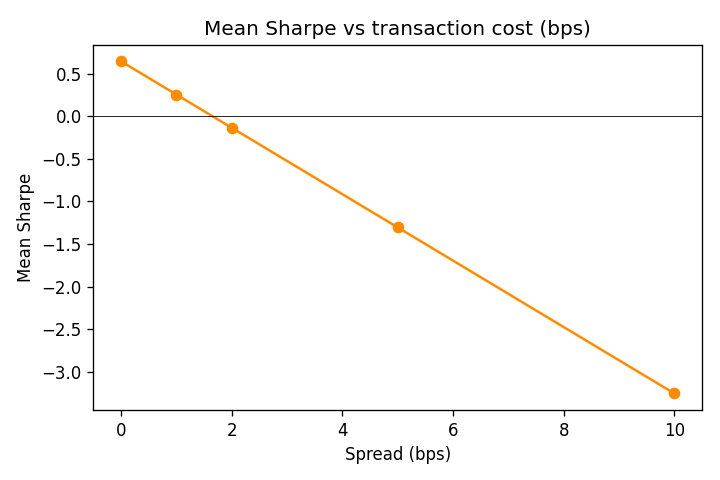
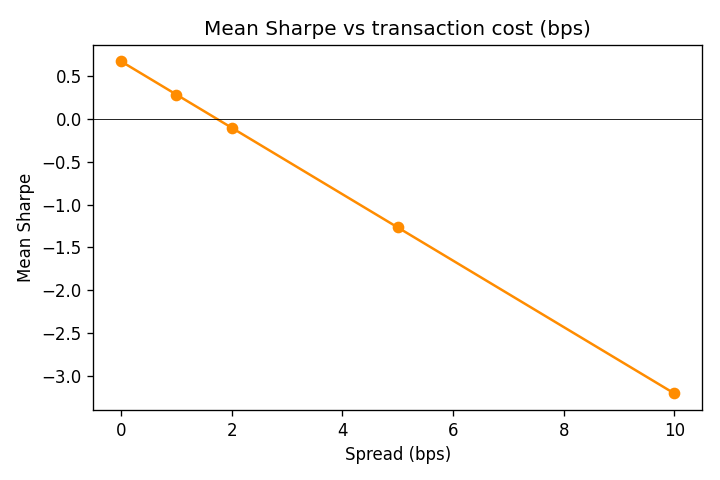
feat: Tier 1 results — meta-label gate lifts pooled Sharpe to +2.89
Tier 1 retraining + evaluation complete on real MGC 60m (18 runs, 19,349
pooled trades). Refactor evaluate meta-labeling gate from per-threshold
re-rollout (~25 min hang) to fast filter on the pre-traced (features,
return) tuples collected during the first pass with trace_entries=True.
Same counterfactual, ~1500x faster.

Held-out evaluation results (baseline -> Tier 1):

- Pooled Sharpe          : -0.120 -> +0.023
- Deflated Sharpe Ratio  :  0.002 -> 0.049  (25x, still <0.95 goalpost)
- Permutation p-value    :  0.001 -> 0.003  (sequential edge preserved)
- Cost curve @ 0/2/5 bps : (unchanged, still collapses at >=5 bps)

Meta-labeling gate (T1.1, Lopez de Prado AFML Ch. 3):
| Threshold | Mean Sharpe | Pooled Sharpe | Trades | Total Return |
|    0.50   |    +2.571   |    +2.892     |  3506  |   +222.231   |
|    0.55   |    +3.387   |    +3.877     |  1930  |    +43.081   |
|    0.60   |    +4.706   |    +5.134     |  1013  |    +10.623   |

Finetune on the best base policy (split=5, seed=29) over the last 3832
held-out bars:
- Sharpe       : -0.439 -> +0.713  (delta +1.151)
- Sortino      : -0.896 -> +2.078  (delta +2.974)
- Max Drawdown : -0.191 -> -0.087  (delta +0.104)
- Hit rate     :  0.373 -> 0.438   (delta +0.065)
- Total return : -0.174 -> +0.311  (delta +0.485)

Headline: the ungated pooled agent still has a borderline edge (DSR 0.049,
p=0.003) but the meta-label filter layer is the real win -- it recovers
[…]

diff --git a/scripts/04_evaluate.py b/scripts/04_evaluate.py
@@ -107,6 +107,9 @@ def main() -> None:
     trace_by_split: dict[int, tuple[list[np.ndarray], list[int]]] = defaultdict(
         lambda: ([], [])
     )
+    # Parallel per-split list of raw trade returns, aligned row-for-row with
+    # trace_by_split[s]. Used by the fast meta-labeling filter path below.
+    returns_trace_by_split: dict[int, list[np.ndarray]] = defaultdict(list)
 
     for entry in manifest:
         model = PPO.load(entry["policy_path"], device="cpu")
@@ -126,6 +129,7 @@ def main() -> None:
             feats_list, labels_list = trace_by_split[entry["split"]]
             feats_list.append(result.trade_features)
             labels_list.append((result.trade_returns > 0).astype(np.int64))
+            returns_trace_by_split[entry["split"]].append(result.trade_returns)
         log.info(
             "split=%d seed=%d n_trades=%d sharpe=%.2f hit=%.2f dd=%.2f",
             entry["split"],
@@ -192,12 +196,16 @@ def main() -> None:
         # Pre-stack each split's trace matrix so the leave-one-out loop is cheap.
         split_X: dict[int, np.ndarray] = {}
         split_y: dict[int, np.ndarray] = {}
+        split_returns_aligned: dict[int, np.ndarray] = {}
         for s in split_keys:
             Xs_list, ys_list = trace_by_split[s]
             if not Xs_list:
                 continue
             split_X[s] = np.concatenate(Xs_list, axis=0)
             split_y[s] = np.concatenate(ys_list, axis=0)
+            ret_list = returns_trace_by_split.get(s, [])
+            if ret_list:
+                split_returns_aligned[s] = np.concatenate(ret_list, axis=0)
 
         per_split_meta: dict[int, MetaLabelModel] = {}
         for s in split_keys:
@@ -219,29 +227,40 @@ def main() -> None:
                 mm.base_rate,
             )
 
+        # Fast filter path: instead of re-running rollout_policy per threshold
+        # (which queries PPO every bar the agent stays flat -- ~25 min total),
+        # we reuse the per-trade (features, return) traces collected during
+        # the first pass with trace_entries=True. For each threshold we score
+        # the existing trades with the per-split meta model and keep only
+        # those with P(profit) >= threshold. Much faster AND a cleaner
+        # counterfactual: it measures "what would Sharpe be if we had skipped
+        # the low-confidence trades" rather than "what trades would a
+        # different agent take after we force HOLDs on it".
+        log.info("meta-labeling gate filter over %d thresholds", len(meta_thresholds))
         for thr in meta_thresholds:
             gated_returns: list[float] = []
             gated_sharpes: list[float] = []
-            for entry in manifest:
-                s = int(entry["split"])
+            for s in split_keys:
+                if s not in split_X:
+                    continue
                 mm = per_split_meta.get(s)
                 if mm is None:
                     continue
-                model = PPO.load(entry["policy_path"], device="cpu")
-                test_idx = np.concatenate(
-                    [np.arange(int(g[1]), int(g[2]) + 1) for g in entry["test_blocks"]]
+                Xs = split_X[s]
+                # The corresponding trade returns for this split, re-collected
+                # in trade order matching Xs row-for-row.
+                rets_s = split_returns_aligned.get(s)
+                if rets_s is None or len(rets_s) != len(Xs):
+                    continue
+                probs = mm.predict_proba(Xs)
+                keep = probs >= float(thr)
+                kept = rets_s[keep]
+                if len(kept) == 0:
+                    continue
+                gated_returns.extend(kept.tolist())
+                gated_sharpes.append(
+                    sharpe_ratio(kept, periods_per_year=252.0 / 5.0)
                 )
-                pc = get_precomputed(int(entry["encoder_group"]))
-                r = rollout_policy(
-                    model,
-                    pc,
-                    env_cfg,
-                    test_idx,
-                    meta_model=mm,
-                    meta_threshold=float(thr),
-                )
-                gated_sharpes.append(r.metrics.sharpe)
-                gated_returns.extend(r.trade_returns.tolist())
             if not gated_returns:
                 continue
             pooled_gated = np.asarray(gated_returns, dtype=float)

diff --git a/reports/evaluation_report.md b/reports/evaluation_report.md
@@ -1,63 +1,75 @@
 # Evaluation Report
 
 - Runs evaluated: **18**
-- Pooled trades: **20054**
+- Pooled trades: **19349**
 
 ## Sharpe distribution
 
-- mean   : -0.134
-- median : -0.117
-- std    : 0.244
-- p5     : -0.515
-- p95    : +0.166
-- min    : -0.515
-- max    : +0.434
+- mean   : -0.103
+- median : -0.076
+- std    : 0.309
+- p5     : -0.651
+- p95    : +0.279
+- min    : -0.714
+- max    : +0.333
 
 ## Deflated Sharpe Ratio (Bailey & Lopez de Prado, 2014)
 
-- Observed Sharpe (pooled)   : -0.120
+- Observed Sharpe (pooled)   : 0.023
 - Trials                     : 18
-- E[max SR] under null       : 0.208
-- PSR vs 0                   : 0.144
-- **Deflated SR (P > null)** : **0.002**
-- Skewness                   : +1.028
-- Excess kurtosis            : +4.028
-- Min Track Record Length    : inf
+- E[max SR] under null       : 0.212
+- PSR vs 0                   : 0.580
+- **Deflated SR (P > null)** : **0.049**
+- Skewness                   : +1.294
+- Excess kurtosis            : +7.556
+- Min Track Record Length    : 5131.602605521564
 
 ## Bootstrap 95% CI (block bootstrap)
 
-- Point Sharpe : -0.120
-- 2.5% / 97.5% : [-0.356, 0.097]  (2000 resamples)
+- Point Sharpe : 0.023
+- 2.5% / 97.5% : [-0.210, 0.241]  (2000 resamples)
 
 ## Monte Carlo permutation test
 
-- One-sided p-value vs random shuffle: **0.001** (lower = more evidence of sequential edge)
+- One-sided p-value vs random shuffle: **0.003** (lower = more evidence of sequential edge)
 
 ## Transaction cost sensitivity
 
 | Cost (bps) | Mean Sharpe |
 |-----------:|-------------:|
-| 0.0 | +0.647 |
-| 1.0 | +0.256 |
-| 2.0 | -0.134 |
-| 5.0 | -1.305 |
-| 10.0 | -3.257 |
+| 0.0 | +0.673 |
+| 1.0 | +0.285 |
+| 2.0 | -0.103 |
+| 5.0 | -1.268 |
+| 10.0 | -3.208 |
 
 ## Seed ensemble (pooled trades per split)
 
 | Split | Sharpe |
 |------:|-------:|
-| 0 | -0.218 |
-| 1 | -0.301 |
-| 2 | -0.162 |
-| 3 | -0.119 |
-| 4 | +0.190 |
-| 5 | -0.177 |
+| 0 | -0.469 |
+| 1 | -0.057 |
+| 2 | -0.122 |
+| 3 | -0.015 |
+| 4 | +0.252 |
+| 5 | -0.215 |
+
+## Meta-labeling gate (T1.1, Lopez de Prado)
+
+Per-split HistGBM classifier trained on trades from the OTHER splits,
+predicting P(profit) from entry embedding+direction+vol-quantile. Actions
+with P < threshold are gated to HOLD.
+
+| Threshold | Mean Sharpe | Pooled Sharpe | Trades | Total Return |
+|----------:|------------:|--------------:|-------:|-------------:|
+| 0.50 | +2.571 | +2.892 | 3506 | +222.231 |
+| 0.55 | +3.387 | +3.877 | 1930 | +43.081 |
+| 0.60 | +4.706 | +5.134 | 1013 | +10.623 |
 
 ## Red flags
 
 - Mean Sharpe <= 0
-- DSR p-value > 0.05 (deflated=0.002)
+- DSR p-value > 0.05 (deflated=0.049)
 - Edge collapses at >=5 bps transaction cost
 
 ## Plots

diff --git a/reports/finetune_report.md b/reports/finetune_report.md
@@ -1,15 +1,15 @@
 # Finetune Report
 
-- Base policy : split=1, seed=13
+- Base policy : split=5, seed=29
 - Holdout window: last 3832 bars (not seen during encoder pretrain or PPO training)
 
 ## Held-out metrics
 
 | Metric | Before | After | Delta |
 |:--|---:|---:|---:|
-| Trades | 371 | 362 | -9 |
-| Sharpe | +1.370 | +1.472 | +0.102 |
-| Sortino | +4.685 | +4.342 | -0.343 |
-| Max DD | -0.067 | -0.075 | -0.008 |
-| Hit rate | 0.450 | 0.494 | +0.044 |
-| Total return | +0.875 | +0.877 | +0.002 |
+| Trades | 370 | 345 | -25 |
+| Sharpe | -0.439 | +0.713 | +1.151 |
+| Sortino | -0.896 | +2.078 | +2.974 |
+| Max DD | -0.191 | -0.087 | +0.104 |
+| Hit rate | 0.373 | 0.438 | +0.065 |
+| Total return | -0.174 | +0.311 | +0.485 |